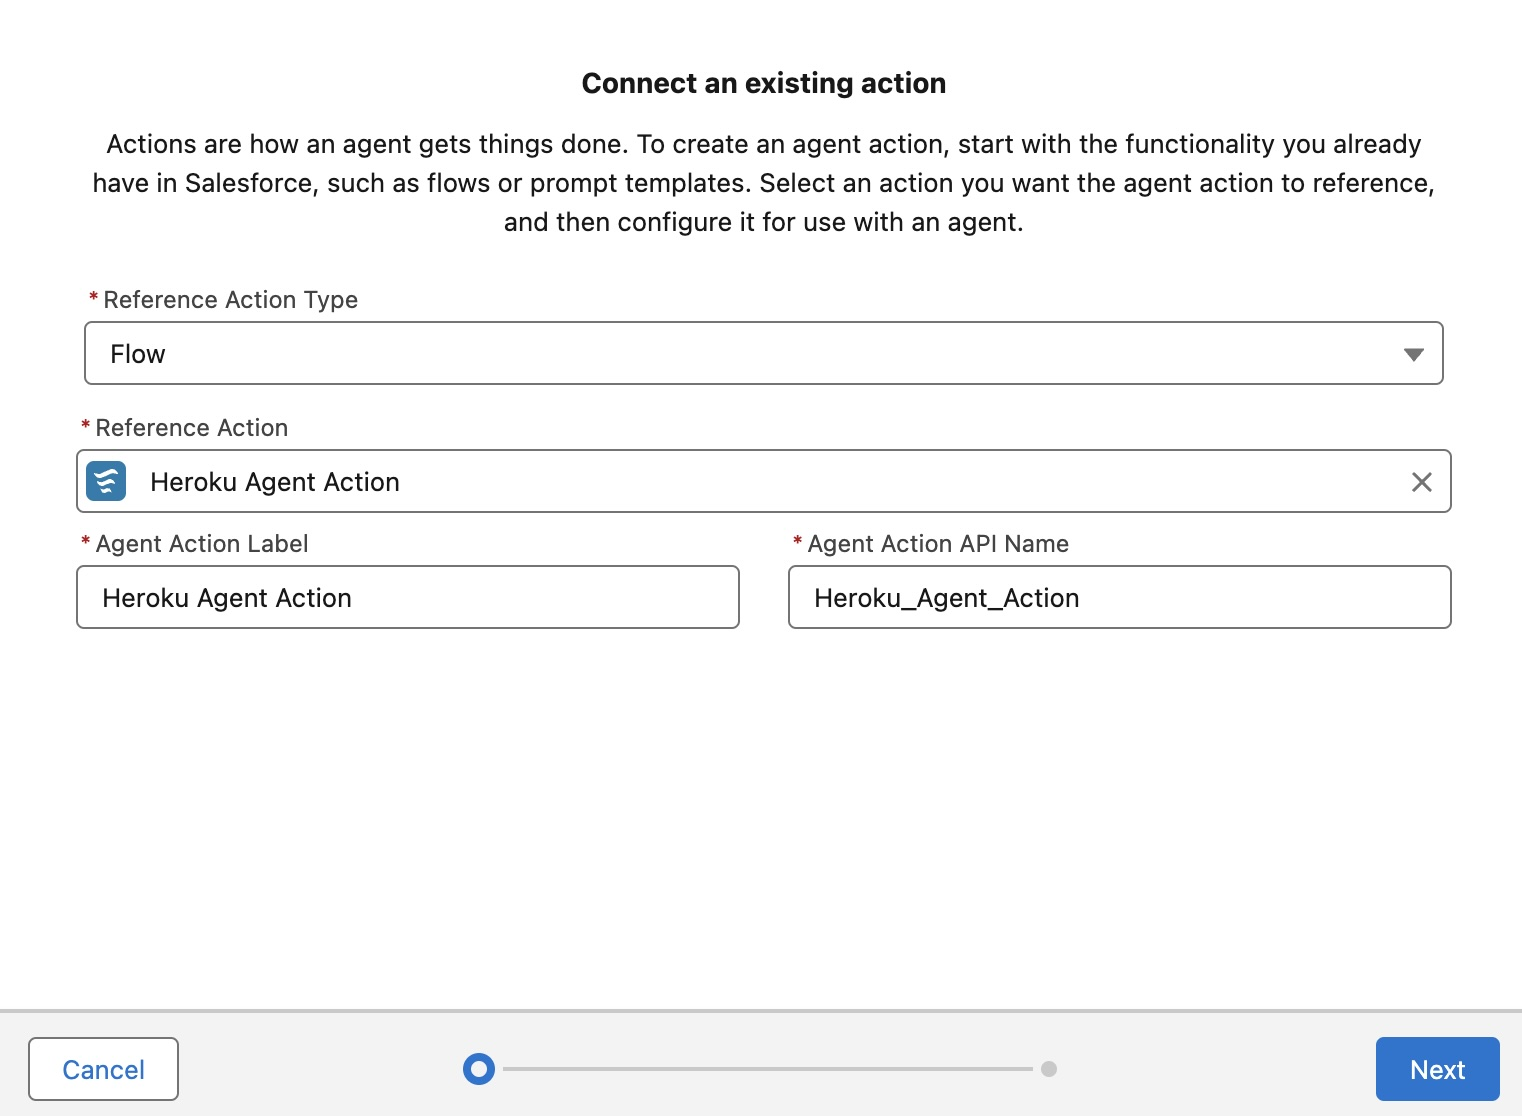
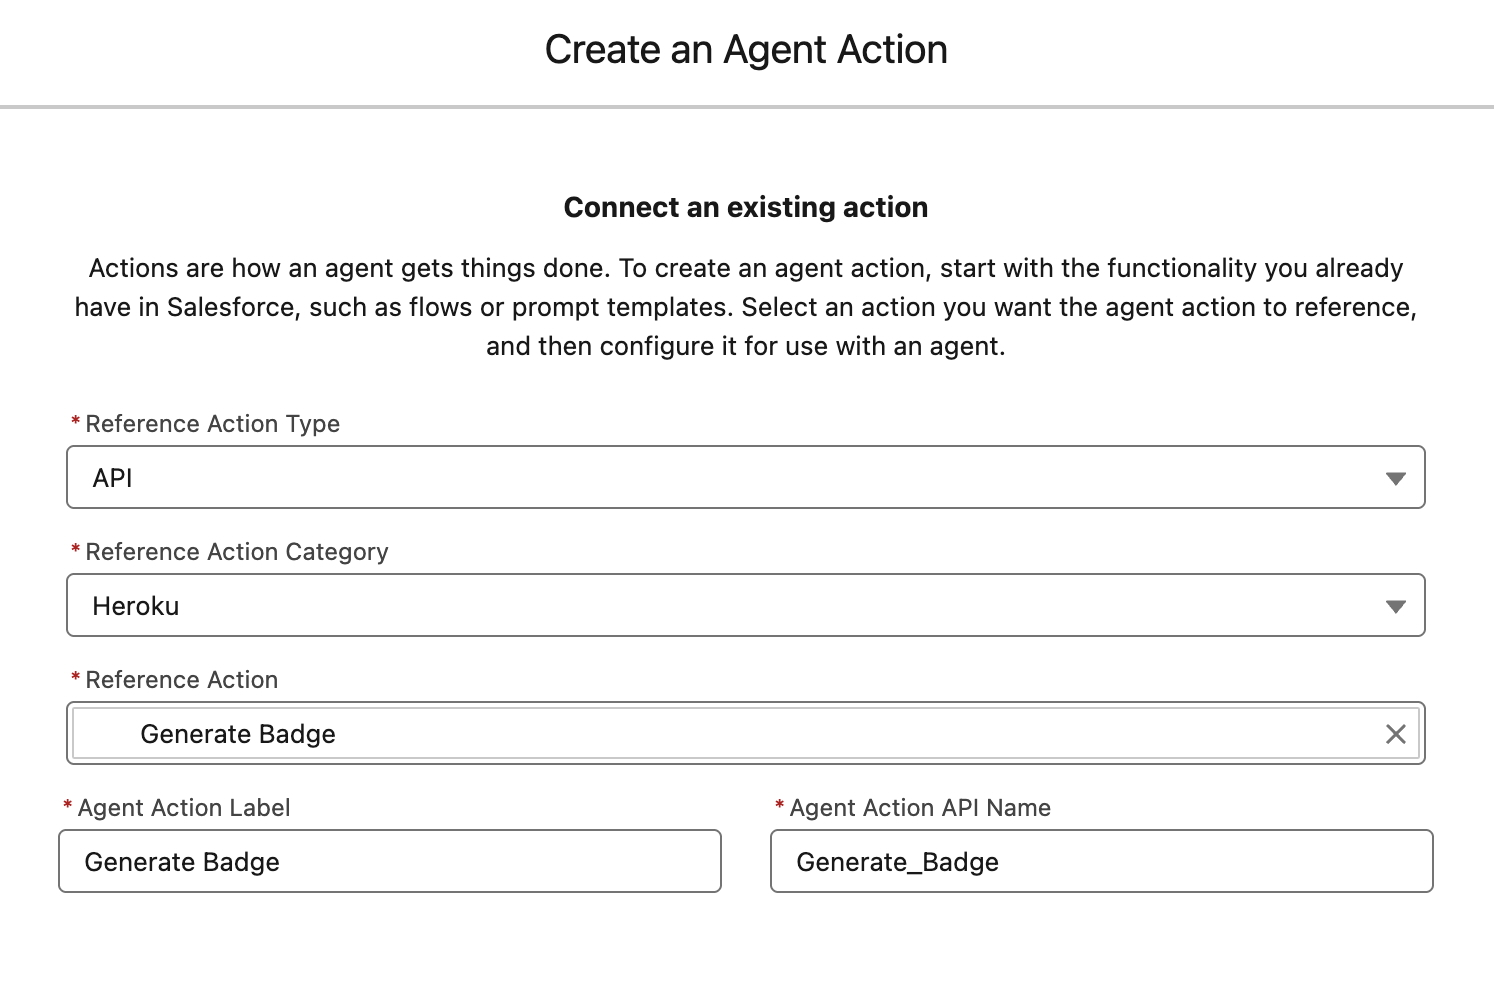
Further ga updates

diff --git a/README.md b/README.md
@@ -15,33 +15,42 @@ This tutorial provides examples in Java and Python for coding a basic Agentforce
 | Python | [GitHub Repository](https://github.com/heroku-examples/heroku-agentforce-tutorial-python)
 | Java | [GitHub Repository](https://github.com/heroku-examples/heroku-agentforce-tutorial-java)
 
-Step 2 - Importing your Heroku App into a Salesforce org
---------------------------------------------------------
+Step 2 - Publishing your Heroku App into a Salesforce org
+---------------------------------------------------------
 
-> 💡 **Salesforce Org Requirements:**<br/>Ensure you have access to Agentforce in your org by searching for `Agents` in the `Setup` menu. If not, you can obtain a free [Salesforce Developer Edition org here](https://www.salesforce.com/form/developer-signup/?d=pb).
+> 💡 **Salesforce Org Requirements:**<br/>Ensure you have access to Agentforce in your org by searching for `Agents` in the `Setup` menu. If not, you can obtain a free [Salesforce Developer Edition org here](https://www.salesforce.com/form/developer-signup/?d=pb). Be sure to visit `Einstein Setup` to enable Einstein, the fresh the page and search for `Agentforce Agents` to enable Agentforce. Finally on the same page click `Enable the Agentforce (Default) Agent`.
 
 From the directory you completed the above deployment in, run the following commands.
 
 Add the Heroku Integration add-on to your application.
+
 ```
-$ heroku addons:create heroku-applink
+heroku addons:create heroku-applink
 ```
+
 Connect your Heroku application to the org you intend to configure Agentforce within.
+
 ```
-$ heroku salesforce:connect my-org
+heroku salesforce:connect my-org
 ```
+
 Add the Heroku Integration Service Mesh buildpack to ensure incoming calls from the Salesforce org are authenticated correctly.
+
 ```
 $ heroku buildpacks:add https://github.com/heroku/heroku-buildpack-heroku-applink-service-mesh
 ```
+
 Import your applications and its API specification into the connected org, for Python use `api-spec.json`.
+
 ```
-$ heroku salesforce:publish api-spec.yaml --org-name my-org --client-name HerokuAgentAction
+heroku salesforce:publish api-spec.yaml --client-name BadgeService --connection-name my-org --authorization-connected-app-name BadgeServiceConnectedApp --authorization-permission-set-name BadgeServicePermissions
 ```
-Lastly trigger a redeploy of the application to ensure the service mesh is running using the following commands .
+
+Lastly trigger a redeploy of the application to ensure the service mesh is running using the following commands.
+
 ```
-$ git commit --allow-empty -m "empty commit"
-$ git push heroku main
+git commit --allow-empty -m "empty commit"
+git push heroku main
 ```
 
 Once complete check your application has been imported by searching for **Heroku** and then **Apps** under the **Setup** menu in your org.
@@ -49,60 +58,12 @@ Once complete check your application has been imported by searching for **Heroku
 Step 3 - Assigning Permissions
 ------------------------------
 
-The above process created a `HerokuAgentAction` permission set to control access to your application from within the org. Search for **Permisison Sets** under **Setup**, locate this permission set and click **Manage Assignments** to assign to your user.
+The above process created `BadgeService` and `BadgeServicePermissions` permission sets to control access to your application from within the org. Search for **Permisison Sets** under **Setup**, locate these permission sets and click **Manage Assignments** to assign to your user.
 
 Step 4 - Creating an Agentforce Action
 --------------------------------------
 
-At present to make your imported app accessable to Agentforce you must create a Flow wrapper. This requirement will be removed in the future.
-
-1. Search for `Flows` under `Setup` and click `New Flow`. Click `Start from Scratch`, then `Next`, and select `Autolaunched Flow (No Trigger)`. Click `Create` to open the `Flow Builder`.
-
-2. From the `Flow Builder`, open the `Toolbox` by clicking the sidebar icon near the top left of the screen. Click `New Resource` and create the following variable resources.
-
-    - **Resource Type**: Variable
-      - **API Name**: AgentActionRequestName
-      - **Data Type**: Text
-      - **Apex Class**: Not Applicable
-      - **Availability Outside the Flow**: Available for Input
-    
-    - **Resource Type**: Variable
-      - **API Name**: AgentActionResponseMessage
-      - **Data Type**: Text
-      - **Apex Class**: Not Applicable
-      - **Availability Outside the Flow**: Available for Output
-    
-    - **Resource Type**: Variable
-      - **API Name**: AgentActionRequest
-      - **Data Type**: Apex Defined
-      - **Apex Class**: ExternalService__HerokuAgentAction_AgentRequest
-      - **Availability Outside the Flow**: None
-
-    Your `Flow` should look like this so far:
-
-    <img src="images/step4-1.jpg" width="80%" alt="Image description">
-
-3. Click the `+` icon in the middle of the canvas and select `Action`. In the `Search Actions` sidebar, search for `Heroku`, select the `Post Process` action, and complete the fields as shown.
-
-    <img src="images/step4-2.jpg" width="80%" alt="Image description">
-
-4. Click the `+` icon **before** the `Call Heroku` element on the canvas, select `Assignment`, and complete as shown.
-
-    <img src="images/step4-3.jpg" width="80%" alt="Image description">
-
-5. Click the `+` icon **after** the `Call Heroku` element on the canvas, select `Assignment`, and complete as shown.
-
-    <img src="images/step4-4.jpg" width="80%" alt="Image description">
-
-    > **Tip:** To complete the `Value` field click into the field and use the popup to select the `Outputs from the Call Heroku Action` resource, then click `_200` and finally `message`. <br/><img src="images/step4-4-1.jpg" width="30%" alt="Image description">
-
-6. Finally, your `Flow` should look like this:
-
-    <img src="images/step4-5.jpg" width="80%" alt="Image description">
-
-7. Click `Save`, enter `Heroku Agent Action`, and click `Save`, followed by clicking `Activate`.
-
-8. Search for `Agent Actions` under the `Setup` menu, and click `New Agent Action`, selecting `Flow` as the `Reference Action Type`. In the `Reference Action` search field, search for `Heroku` so that you see the following:
+1. Search for `Agent Assets` under the `Setup` menu, and on the `Actions` tab, click `New Agent Action`, selecting `API` as the `Reference Action Type`. Then select `Heroku` from the `Reference Action Category`. In the `Reference Action` search field, search for `Generate Badge`. Your dialog should look like the following:
 
     <img src="images/step4-6.jpg" width="80%" alt="Image description">
 
@@ -110,26 +71,20 @@ At present to make your imported app accessable to Agentforce you must create a 
 
     <img src="images/step4-7.jpg" width="80%" alt="Image description">
 
-    | Field | Text |
-    | ----- | ---- |
-    | `Agent Action Instructions` | Use this action in response to requests for a Heroku badge with a name on it. |
-    | `AgentActionRequestName Instructions` | Name to be placed on the badge. |
-    | `AgentActionResponseMessage Instructions` | This is the Heroku badge the user requested. |
-
 Step 5 - Using Agent Builder
 ----------------------------
 
-1. Search for `Agents` under `Setup` and be sure to toggle to enable `Einstein Copilot for Salesforce`.
+1. Search for `Agentforce Agents` under `Setup`.
 
-2. Click the `Einstein Copilot` link at the bottom of the page to find the `Open in Agent Builder` button.
+2. Click the `Agentforce (Default)` link at the bottom of the page to find the `Open in Agent Builder` button.
 
 3. Click the `Deactivate` button in the top right of the screen if present.
 
 4. Click `Topics` and the `General CRM` topic. If the `New Version` button is shown, click it.
 
-5. Click the `Topic Configuration` tab and append "***Also including requests for badges.***" to the current contents of the `Classification Description` field.
+5. Click the `Topic Configuration` tab and append "***Also including requests for badges.***" to the current contents of the `Classification Description` field. Click `Save`.
 
-5. Click the `This Topic's Actions` tab and select `Add from Asset Library` from the `New` button dropdown.
+5. Click the `General CRM` topic once more and then click `This Topic's Actions` tab and select `Add from Asset Library`, select the `Generate Badge` action.
 
 6. Complete the dialog as shown and click `Finish`.
 
@@ -142,7 +97,7 @@ Step 6 - Testing your Action
 
 1. Open the `Agent Builder` for `Einstein Copilot`.
 
-2. In the `Conversation Preview`, enter `I would like a Heroku badge with the name Master Builder on it.`
+2. In the `Conversation Preview`, enter `Generate a badge for Astro`
 
     > You can, of course, change the name to your own and share your badge with your friends!
 
@@ -152,13 +107,3 @@ Summary
 -------
 
 Congratulations on deploying your first Heroku-powered Agentforce Action!
-
-Need some inspiration on what to build?
----------------------------------------
-
-The examples in this tutorial are intentionally simple, designed to give you a clear starting point for creating your own actions. We have also shared some fully developed action demos, and while their code is not compatible with the Heroku Integartion Pilot, you may want to checkout the video demonstrations and review the code for further inspiration.
-
-| Example | Demo Video |  | Related Content
-| ------- | ---------- | ---------- | ---------------
-| The **Archive Agent** action demonstrates using Heroku to access and perform complex computations over unstructured archived data. It uses AI to interpret natural language requests from users to perform a wider array of dynamic calculations on the data. | [Link](https://youtu.be/mNgrdf1GX-w) | <img src="images/archiveagent2.png" width="80%" alt="Image description"> | [Blog](https://blog.heroku.com/building-supercharged-agents-heroku-agentforce) [Code](https://github.com/heroku-examples/agentforce-collage-agent)
-| With the **Coral Cloud Collage Agent**, we explore how Coral Cloud Resort invites its guests to browse and book unique experiences throughout their stay using Agentforce. With Heroku, we extend the agent's functionality to generate a personalized collage of each guest's adventures, showcasing how custom code deployed on Heroku can create dynamic digital media delivered directly within the Agentforce experience. | [Link](https://www.youtube.com/watch?v=yd97A9GLFUA&t=3s) | ![image](images/collage2.jpg) ![image](images/collage.png) | [Code](https://github.com/heroku-examples/agentforce-collage-agent)
